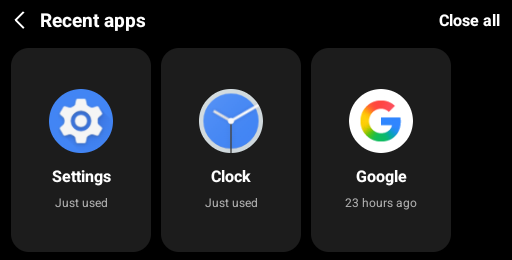
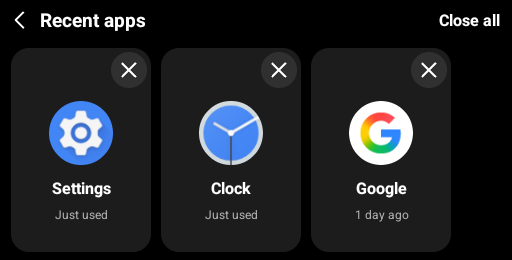
feat: dismiss individual recent app cards

diff --git a/app/src/main/java/vn/lit/screenos/RecentAppsView.kt b/app/src/main/java/vn/lit/screenos/RecentAppsView.kt
@@ -64,18 +64,33 @@ class RecentAppsView(context: Context, private val displayId: Int, private val c
         }
         val row = LinearLayout(context).apply { setPadding(Ui.dp(context,6),0,Ui.dp(context,6),0) }
         entries.forEach { entry ->
-            val card = LinearLayout(context).apply {
-                orientation=VERTICAL; gravity=Gravity.CENTER
-                setPadding(Ui.dp(context,10),Ui.dp(context,10),Ui.dp(context,10),Ui.dp(context,10))
+            val card = FrameLayout(context).apply {
                 background=GradientDrawable().apply { setColor(0xFF1C1C1C.toInt()); cornerRadius=Ui.dp(context,18).toFloat() }
                 contentDescription=I18n.text(R.string.ui_open, entry.label); tag="recent:${entry.component.packageName}"; isClickable=true; isFocusable=true
                 setOnClickListener { launch(entry) }
             }
-            card.addView(ImageView(context).apply { setImageDrawable(entry.icon); scaleType=ImageView.ScaleType.FIT_CENTER },LayoutParams(Ui.dp(context,64),Ui.dp(context,64)))
-            card.addView(label(entry.label,16f,true).apply { gravity=Gravity.CENTER; maxLines=2; ellipsize=android.text.TextUtils.TruncateAt.END },LayoutParams(-1,-2).apply { topMargin=Ui.dp(context,12) })
+            val content = LinearLayout(context).apply {
+                orientation=VERTICAL; gravity=Gravity.CENTER
+                setPadding(Ui.dp(context,10),Ui.dp(context,34),Ui.dp(context,10),Ui.dp(context,10))
+            }
+            card.addView(content,FrameLayout.LayoutParams(-1,-1))
+            content.addView(ImageView(context).apply { setImageDrawable(entry.icon); scaleType=ImageView.ScaleType.FIT_CENTER },LayoutParams(Ui.dp(context,64),Ui.dp(context,64)))
+            content.addView(label(entry.label,16f,true).apply { gravity=Gravity.CENTER; maxLines=2; ellipsize=android.text.TextUtils.TruncateAt.END },LayoutParams(-1,-2).apply { topMargin=Ui.dp(context,12) })
             val minutes = ((System.currentTimeMillis()-entry.lastUsed).coerceAtLeast(0)/60_000).toInt()
             val age = when { minutes<1 -> I18n.text(R.string.ui_just_used); minutes<60 -> resources.getQuantityString(R.plurals.minutes_ago,minutes,minutes); minutes<1440 -> resources.getQuantityString(R.plurals.hours_ago,minutes/60,minutes/60); else -> resources.getQuantityString(R.plurals.days_ago,minutes/1440,minutes/1440) }
-            card.addView(label(age,12f).apply { gravity=Gravity.CENTER; setTextColor(0xFFAFAFAF.toInt()) },LayoutParams(-1,-2).apply { topMargin=Ui.dp(context,7) })
+            content.addView(label(age,12f).apply { gravity=Gravity.CENTER; setTextColor(0xFFAFAFAF.toInt()) },LayoutParams(-1,-2).apply { topMargin=Ui.dp(context,7) })
+            card.addView(Glyph.button(context,Glyph.Kind.CLOSE,I18n.text(R.string.ui_close_recent_app,entry.label),action={
+                if(Platform.unlocked(context) && RecentApps.hasAccess(context)) {
+                    RecentApps.dismiss(context,entry.component.packageName)
+                    row.removeView(card)
+                    if(row.childCount==0) render(emptyList())
+                }
+            }).apply {
+                tag="recent-dismiss:${entry.component.packageName}"
+                background=android.graphics.drawable.RippleDrawable(android.content.res.ColorStateList.valueOf(0x40FFFFFF),GradientDrawable().apply { shape=GradientDrawable.OVAL;setColor(0xFF303030.toInt()) },null)
+            },FrameLayout.LayoutParams(Ui.dp(context,36),Ui.dp(context,36),Gravity.TOP or Gravity.RIGHT).apply {
+                topMargin=Ui.dp(context,4);rightMargin=Ui.dp(context,4)
+            })
             row.addView(card,LayoutParams(Ui.dp(context,140),-1).apply { setMargins(Ui.dp(context,5),Ui.dp(context,8),Ui.dp(context,5),Ui.dp(context,8)) })
         }
         body.addView(HorizontalScrollView(context).apply { isHorizontalScrollBarEnabled=false; addView(row,FrameLayout.LayoutParams(-2,-1)) },FrameLayout.LayoutParams(-1,-1))

diff --git a/app/src/main/java/vn/lit/screenos/RecentApps.kt b/app/src/main/java/vn/lit/screenos/RecentApps.kt
@@ -21,13 +21,14 @@ object RecentApps {
         if (!hasAccess(context)) return emptyList()
         val now = System.currentTimeMillis()
         val since = now - 7 * 24 * 60 * 60 * 1000L
-        val cleared = Platform.preferences(context).getLong("recent_cleared_at",0)
+        val prefs = Platform.preferences(context)
+        val cleared = prefs.getLong("recent_cleared_at",0)
         val pm = context.packageManager
         val launchable = pm.queryIntentActivities(Intent(Intent.ACTION_MAIN).addCategory(Intent.CATEGORY_LAUNCHER), 0)
             .map { it.activityInfo.packageName }.toSet()
         val usage = context.getSystemService(UsageStatsManager::class.java).queryAndAggregateUsageStats(since, now)
         return usage.values.asSequence()
-            .filter { it.lastTimeUsed >= since && it.lastTimeUsed > cleared && it.packageName in launchable && it.packageName !in excluded && it.packageName != context.packageName }
+            .filter { it.lastTimeUsed >= since && it.lastTimeUsed > maxOf(cleared,prefs.getLong("recent_dismissed.${it.packageName}",0)) && it.packageName in launchable && it.packageName !in excluded && it.packageName != context.packageName }
             .sortedByDescending { it.lastTimeUsed }.take(30)
             .mapNotNull { stat ->
                 try {
@@ -38,7 +39,16 @@ object RecentApps {
             }.toList()
     }
 
-    fun clear(context: Context) { Platform.preferences(context).edit().putLong("recent_cleared_at",System.currentTimeMillis()).apply() }
+    fun dismiss(context: Context,pkg: String) {
+        Platform.preferences(context).edit().putLong("recent_dismissed.$pkg",System.currentTimeMillis()).apply()
+    }
+
+    fun clear(context: Context) {
+        val prefs=Platform.preferences(context)
+        val edit=prefs.edit().putLong("recent_cleared_at",System.currentTimeMillis())
+        prefs.all.keys.filter { it.startsWith("recent_dismissed.") }.forEach { edit.remove(it) }
+        edit.apply()
+    }
 
     fun isLauncherRoot(context: Context, pkg: String): Boolean {
         if (!hasAccess(context)) return false

diff --git a/README.md b/README.md
@@ -4,7 +4,7 @@
 
 Open apps on your **Galaxy Z Flip3 cover screen**. Foldlet adds an app drawer, search, favorites, and navigation alongside Samsung’s native clock and widgets.
 
-**[Download APK 0.6.0](https://github.com/luongwnv/Foldlet/releases/download/v0.6.0/Foldlet-0.6.0.apk)** · **0.6.0 beta** · Tested on **SM-F711B, Android 14 / One UI 6.1.1**.
+**[Download APK 0.6.1](https://github.com/luongwnv/Foldlet/releases/download/v0.6.1/Foldlet-0.6.1.apk)** · **0.6.1 beta** · Tested on **SM-F711B, Android 14 / One UI 6.1.1**.
 
 ## Screenshots
 
@@ -32,7 +32,7 @@ Actual captures of the native Android interface running on a dedicated test emul
 
 ## Getting started
 
-1. Download **Foldlet-0.6.0.apk** from [Releases](https://github.com/luongwnv/Foldlet/releases), open it on your phone, and allow installation from that source when Android asks.
+1. Download **Foldlet-0.6.1.apk** from [Releases](https://github.com/luongwnv/Foldlet/releases), open it on your phone, and allow installation from that source when Android asks.
 2. Open **Foldlet** on the inner screen. In **Overview**, grant **Display over other apps** and enable the **Foldlet** service in Android’s **Accessibility** settings.
 3. Grant **Usage access** to use Recent apps. Allow notifications if you want the service notification and its **Stop** button.
 4. Turn on the Foldlet service, fold your phone, and wake the cover screen.
@@ -67,7 +67,7 @@ Long-press **Hide** to give Samsung control until the next screen wake.
 
 Recent apps shows up to **30 apps used within the past 7 days**, based on Android’s usage history. Tap a card to reopen the app on the cover screen.
 
-**Close all** clears the cards from Foldlet. An app appears again after you use it. This does not force-stop apps or remove tasks from Android’s system Recents.
+Tap **×** at the top-right of a card to close that card, or **Close all** to clear the list. An app appears again after you use it. These controls dismiss Foldlet cards without force-stopping apps or removing Android system tasks.
 
 ### Customization
 
@@ -98,7 +98,7 @@ Permission shortcuts are available in **Overview**. You can revoke permissions i
 | Notifications (Optional) | Show the service status and Stop button |
 | Notification access (Optional) | Support notification and media features when used |
 
-Recent-app data is read on your device, is not sent to a server, and is not saved as a separate usage history. Input to other apps is write-only: existing field contents are not read or recorded. Swipe traces and suggestions stay in memory and are discarded when the keyboard closes. Foldlet does not save screen captures. Its network connection is used only for the ADB rotation bridge on localhost.
+Recent-app data is read on your device, is not sent to a server, and is not saved as a separate usage history. Foldlet keeps dismissal timestamps so closed cards stay hidden until their apps are used again. Input to other apps is write-only: existing field contents are not read or recorded. Swipe traces and suggestions stay in memory and are discarded when the keyboard closes. Foldlet does not save screen captures. Its network connection is used only for the ADB rotation bridge on localhost.
 
 ## Optional USB rotation
 

diff --git a/docs/releases/v0.6.1.md b/docs/releases/v0.6.1.md
@@ -1,0 +1,10 @@
+Foldlet 0.6.1 adds a **× close button at the top-right of each Recent apps card**.
+
+- Close one card without opening its app or clearing the other cards.
+- Dismissed cards stay hidden when reopening Recent apps and return after the app is used again.
+- Close all still clears the entire list.
+- Updated English/Vietnamese labels and actual Recent apps screenshot in the user guide.
+
+Install **Foldlet-0.6.1.apk** over the existing compatible build, then open Foldlet once. Closing a card dismisses it from Foldlet; it does not force-stop the app or remove Android system tasks.
+
+This beta is a signed release build with `debuggable=false`. A SHA-256 checksum is included. See the [user guide](https://github.com/luongwnv/Foldlet#readme).
